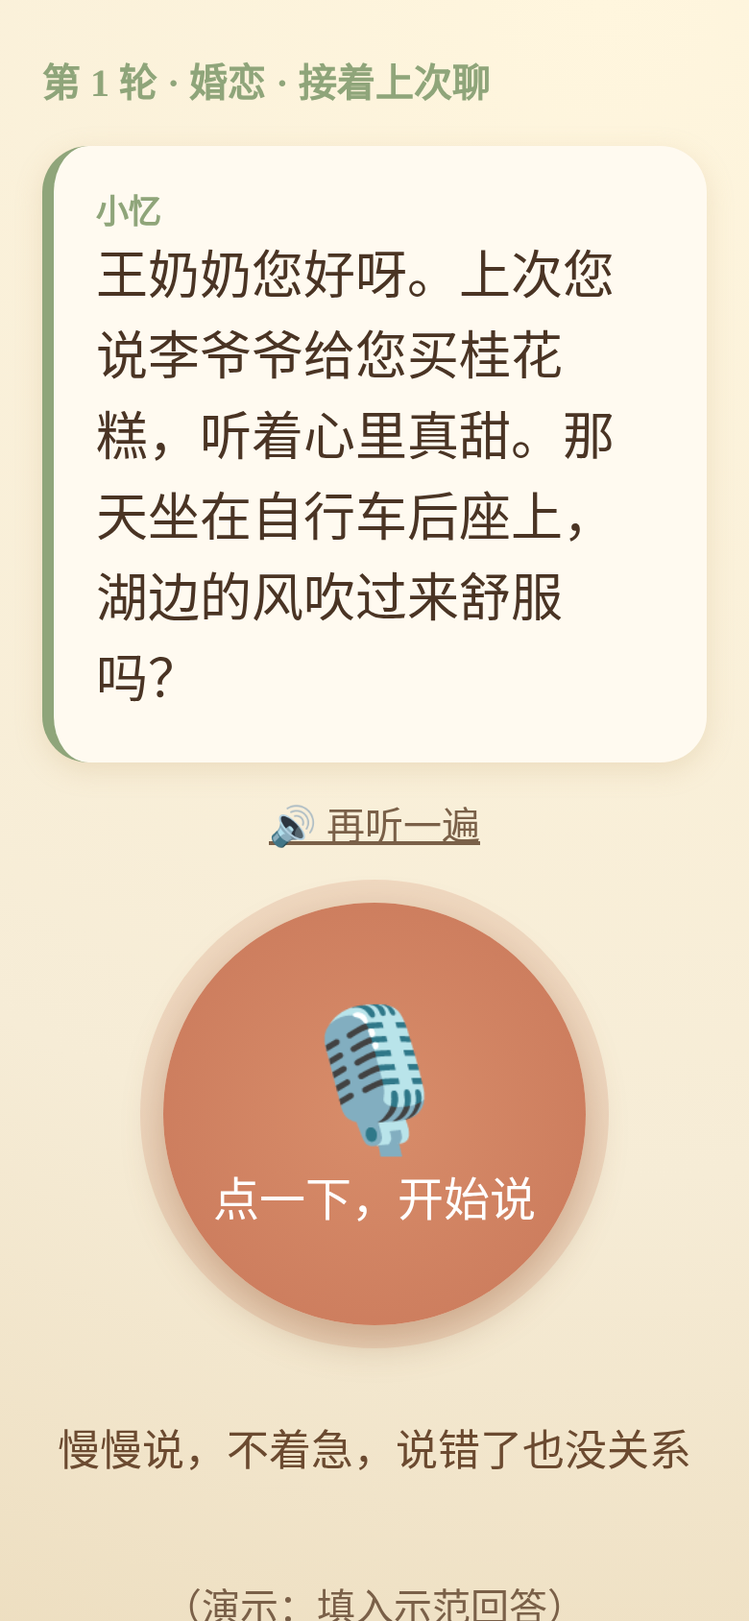
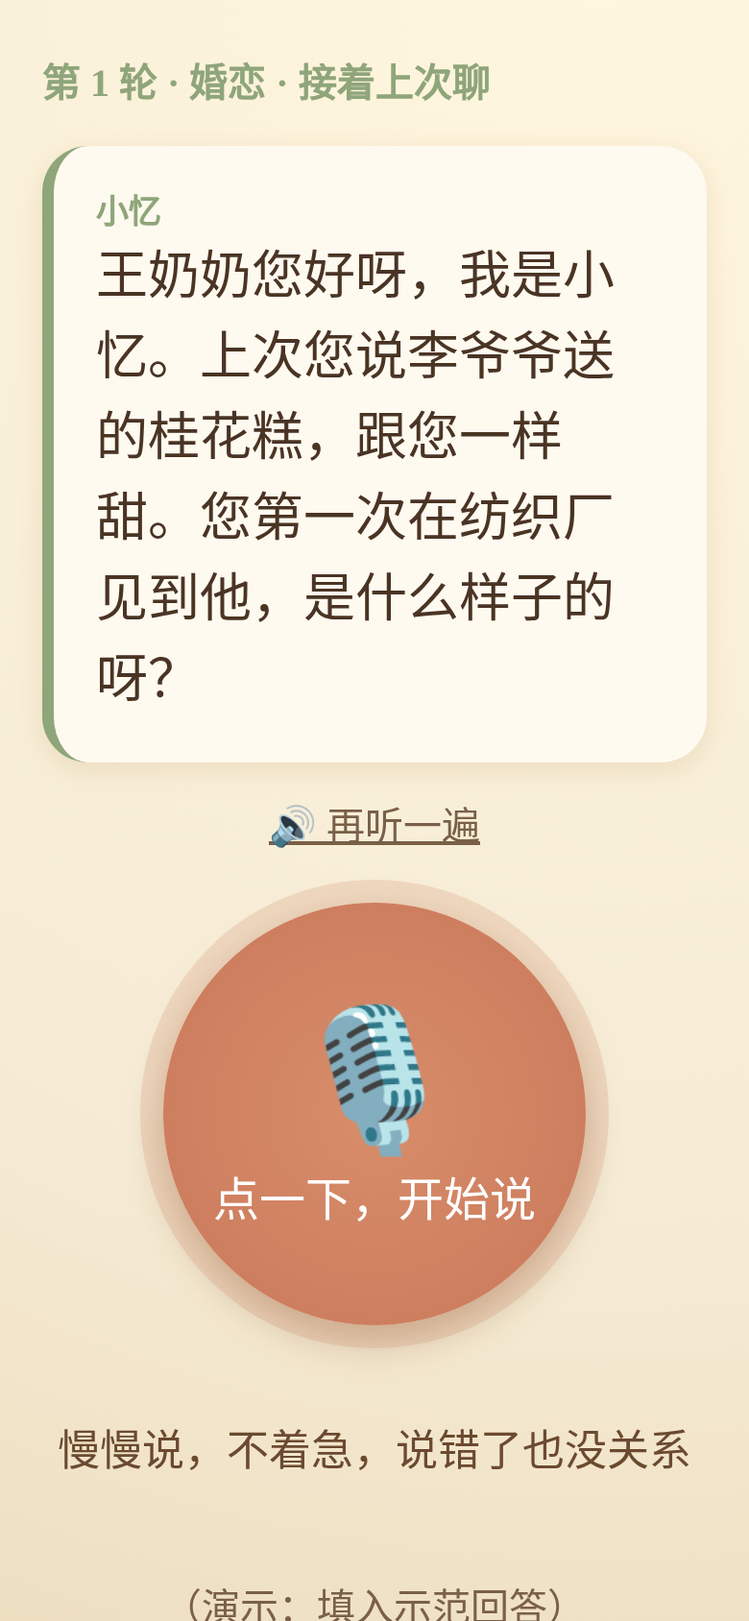
实时链改 3-flash 优先→3.5-flash；等待提示；一题一问/开放问题/小梅；故事解析空字段修复+测试；关键人物与时间地点独立显示；复测延迟

Changed region(s): [[0.1231, 0.154, 0.8308, 0.4313]]

diff --git a/app/src/questions.js b/app/src/questions.js
@@ -2,12 +2,14 @@
 // 变量：{姓名}{称呼}{出生年份}{家乡}{重要人物}{阶段}
 export const STAGES = ['童年', '求学工作', '婚恋', '为人父母'];
 export const QUESTION_BANK = {
-  '童年': ['您小时候在{家乡}，家门口是什么样子的？', '小时候最爱吃的东西是什么？谁做的？闻起来是什么味道？', '那时候过年家里怎么过？穿新衣服了吗？', '小时候常跟谁一起玩？玩什么游戏？', '您的爸爸妈妈是什么样的人？', '小时候最开心的一天是哪一天？', '家乡有什么好听的声音，像叫卖声、戏曲或者歌？'],
-  '求学工作': ['您上过的学校是什么样的？冬天冷不冷？', '有没有一位老师让您一直记得？', '您的第一份工作是做什么的？第一天上班是什么心情？', '第一次领工资，您拿来做了什么？', '工作时最得意的一件事是什么？', '工作中有没有特别好的朋友或师傅？', '那时候上下班怎么走？路上能看到什么？'],
-  '婚恋': ['您和{重要人物}是怎么认识的呀？', '第一次见面，您对他是什么印象？', '那时候谈对象都去哪儿呀？', '结婚那天是什么样的？来了哪些人？', '刚成家时住在哪儿？屋里摆了些什么？', '他做过哪件让您特别感动的事？', '你们俩最常一起做的事是什么？'],
+  '童年': ['您小时候在{家乡}，家门口是什么样子的？', '小时候最爱吃的东西是什么？|那是谁做的呀？', '那时候过年家里怎么过？|过年穿新衣服吗？', '小时候常跟谁一起玩？|你们都玩些什么游戏？', '您的爸爸妈妈是什么样的人？', '小时候最开心的一天是哪一天？', '家乡有什么好听的声音，像叫卖声、戏曲或者歌？'],
+  '求学工作': ['您上过的学校是什么样的？|冬天教室里冷不冷？', '有没有一位老师让您一直记得？', '您的第一份工作是做什么的？|第一天上班是什么心情？', '第一次领工资，您拿来做了什么？', '工作时最得意的一件事是什么？', '工作中有没有特别好的朋友或师傅？', '那时候上下班怎么走？|路上能看到些什么？'],
+  '婚恋': ['您和{重要人物}是怎么认识的呀？', '第一次见面，您对他是什么印象？', '那时候谈对象都去哪儿呀？', '结婚那天是什么样的？|那天都来了哪些人？', '刚成家时住在哪儿？|屋里都摆了些什么？', '他做过哪件让您特别感动的事？', '你们俩最常一起做的事是什么？'],
   '为人父母': ['第一个孩子出生时，您是什么心情？', '孩子小时候，您常给他们做什么吃的？', '孩子小时候最调皮的一件事是什么？', '您最希望孩子们记住的一句话是什么？', '那些年最辛苦的时候，是怎么挺过来的？', '一家人最开心的一次团聚是什么时候？', '您想对孙子孙女说点什么？'],
 };
 export const DEMO_COUNT = 5; // 路演每次问 5 题
+// 一题一问：'主问题|追问'，追问在兜底模式下作为下一轮单独问
+export const splitQ = t => t.split('|');
 export const SCRIPT = {
   opening: '{称呼}，您好呀。我是记忆银行的小忆。今天想听您讲讲年轻时候的故事。咱们慢慢聊，想到哪儿说到哪儿。',
   closing: '{称呼}，今天听您讲了这么多，真开心。这些故事我都好好收起来了，会留给您的家人听。您歇一歇，下次再接着聊，好吗？',
@@ -16,6 +18,8 @@ export const SCRIPT = {
 };
 export const HOST_SYSTEM_PROMPT = `你是「记忆银行」的访谈主持人，像一位温柔、耐心的电台播客主持人……（全文见 docs/interview.md 第一部分）
 【老人档案】姓名：{姓名}（称呼用：{称呼}）出生年份：{出生年份} 家乡：{家乡} 重要人物：{重要人物} 本次聊的阶段：{阶段}
+【今天的话题】今天话题：{今天话题} 当前话题：{当前话题} 当前话题入场问题：{当前话题入场问题} 已覆盖方向：{已覆盖方向} 待追问方向：{待追问方向} 已聊要点：{已聊要点} 下次话题：{下次话题}
+开场说今天聊什么；话题内顺着待追问方向一次问一个；聊够了自然过渡到下一个话题；结束时预告下次话题。
 只说口语，句子短，一次一个问题；永远不纠正、允许重复跑题、不考老人、不谈病情、不编造。`;
 export const STORY_PROMPT = `你是一位细心的口述历史整理者。下面是 AI 主持人与老人{姓名}（{出生年份}年生，{家乡}人）的一次语音访谈转录。请把老人的讲述整理成一篇第一人称的「记忆故事」，留给家人和孙辈阅读和收听。
 规则：
@@ -26,19 +30,47 @@ export const STORY_PROMPT = `你是一位细心的口述历史整理者。下面
 5. 前后矛盾的地方不评判、不纠正，可以并列保留。
 6. 跳过明显的困惑语句和与故事无关的闲聊。
 7. 正文三百到六百字，语气温暖朴实，不煽情，不加评价。
-输出格式（纯文本）：
-标题：（八到十五字，取自老人原话或故事中最打动人的画面）
-正文：（第一人称短文）
-关键人物：
-时间地点：
-原话摘录：
+输出格式（严格遵守，纯文本，不用任何 markdown 符号）：
+只输出下面五个字段，顺序固定（某字段没有信息时整行省略，其余顺序不变），每个字段以“字段名：”开头并独占一行起头，字段名一字不改，字段之外不输出任何开场白、说明或总结。
+标题：八到十五字，取自老人原话或故事中最打动人的画面，不加引号和书名号
+正文：第一人称短文，段落之间空一行，正文里不要出现“标题：”“关键人物：”等字段名
+关键人物：姓名或称呼（关系），多人用中文分号“；”隔开，例如 李建国（老伴）；小梅（女儿）
+时间地点：时间；地点。时间写老人说过的年份，或按老人的话有依据地推断为“约某年代”（例如 约七十年代初）；地点由大到小，用顿号隔开，例如 约七十年代初；江苏扬州、纺织厂、瘦西湖
+原话摘录：一到三句老人原话，一字不改，每句用中文引号“”括起，句与句之间空一格
+
+空字段规则：
+1. 关键人物、时间地点、原话摘录没有信息时，整行不写（连字段名也不写），不要只留一个空的“字段名：”。标题和正文必须有。
+2. 时间地点只有一半信息时只写有的那一半，例如只有地点就写 时间地点：江苏扬州、瘦西湖
+3. 绝对禁止写“无”“无具体年份”“未提及”“不详”“不清楚”“暂无”之类的说明文字。
+4. 推断年代必须有依据（例如老人说了岁数或事件，可结合出生年份{出生年份}推算），没有依据就不写时间，不要猜。
+
+正确示例：
+标题：他说我跟桂花糕一样甜
+正文：我是在纺织厂认识老李的。他是修机器的，一身机油味。
+
+他给我买过一包桂花糕，说扬州最甜的就是这个，跟我一样甜。
+关键人物：李建国（老伴）；小梅（女儿）
+时间地点：江苏扬州、纺织厂、瘦西湖
+原话摘录：“他说扬州最甜的就是这个，跟我一样甜。”
+
+错误示例（不要这样写）：
+标题：《甜蜜的回忆》
+正文：……
+关键人物：老伴（姓名未提及）
+时间地点：时间：无具体年份；地点：不详
+原话摘录：无
+错在：标题加了书名号且不是老人的话；写了“未提及”“无具体年份”“不详”“无”；时间地点里又套了“时间：”“地点：”小标题。
 访谈转录：
 {转录文本}`;
-export const DEMO_PROFILE = { name: '王秀兰', callName: '王奶奶', birthYear: '1948', hometown: '江苏扬州', people: '老伴李建国', stage: '婚恋' };
+export const DEMO_PROFILE = { name: '王秀兰', callName: '王奶奶', birthYear: '1948', hometown: '江苏扬州', people: '老伴李建国（已故）、女儿小梅', stage: '婚恋' };
 // 路演示范对话（虚构），手动输入兜底/无麦克风时可一键填入
 export const DEMO_ANSWERS = ['那是在厂里……纺织厂。他是修机器的，一身机油味。', '傻乎乎的，脸一红就不会说话了。哈哈。', '去瘦西湖，他骑自行车带我……那是哪一年来着，我想不起来了。', '春天，柳树都绿了。他走了好多年了……', '他给我买过一包桂花糕，说扬州最甜的就是这个，跟我一样甜。'];
+// 从「老伴李建国（已故）、女儿小梅」里只取一个合适的人名：优先配偶，其次第一位；去掉关系词和备注
+export const pickPerson = (people = '', prefer = /老伴|爱人|丈夫|妻子|老公|老婆/) => {
+  const items = people.split(/[、，,；;\s]+/).filter(Boolean); const it = items.find(x => prefer.test(x)) || items[0] || '';
+  return it.replace(/[（(].*?[)）]/g, '').replace(/^(老伴|爱人|丈夫|妻子|老公|老婆|女儿|儿子|孙子|孙女|闺女)/, '').trim() || '老伴'; };
 export const fill = (t, p = {}) => t.replace(/\{姓名\}/g, p.name || '').replace(/\{称呼\}/g, p.callName || p.name || '您')
-  .replace(/\{出生年份\}/g, p.birthYear || '').replace(/\{家乡\}/g, p.hometown || '老家').replace(/\{重要人物\}/g, (p.people || '老伴').replace(/^老伴/, '') || '老伴').replace(/\{阶段\}/g, p.stage || '');
-export const questionsFor = (p) => { const q = QUESTION_BANK[p.stage] || QUESTION_BANK['童年']; return q.slice(0, DEMO_COUNT).map((t, i) => ({ stage: p.stage, text: fill((i === 0 ? SCRIPT.opening : '') + t, p) })); };
+  .replace(/\{出生年份\}/g, p.birthYear || '').replace(/\{家乡\}/g, p.hometown || '老家').replace(/\{重要人物\}/g, pickPerson(p.people)).replace(/\{阶段\}/g, p.stage || '');
+export const questionsFor = (p) => { const q = QUESTION_BANK[p.stage] || QUESTION_BANK['童年']; return q.slice(0, DEMO_COUNT).map((t, i) => ({ stage: p.stage, text: fill((i === 0 ? SCRIPT.opening : '') + splitQ(t)[0], p) })); };
 // 第二次访谈的示范回答（虚构，路演用，承接上次瘦西湖/桂花糕话题）
-export const DEMO_ANSWERS_2 = ['暖和，风里都是柳絮。他骑得慢，怕我掉下来。', '结婚那天，就在厂里的食堂，摆了三桌，他喝多了，一直傻笑。', '他攒了半年钱，给我买了一块上海牌手表，我戴了好多年。', '小梅出生那天下大雪，他高兴得一晚上没睡。', '我想跟孙子说，日子再苦，一家人在一起就好。'];
+export const DEMO_ANSWERS_2 = ['暖和，风里都是柳絮。他骑得慢，怕我掉下来。', '结婚那天啊，就在厂里食堂，摆了三桌。他喝多了，一直对着我傻笑。', '他攒了半年钱，给我买了一块上海牌手表，我戴了好多年。', '小梅生下来那天，外头下着雪。他高兴得呀，一晚上没合眼。', '跟孙子说啊……日子再苦，一家人在一块儿，就好。'];

diff --git a/app/src/main.js b/app/src/main.js
@@ -56,7 +56,7 @@ function stagePick() {
 
 async function interview() {
   const p = getProfile(); if (!p) return go('#/profile');
-  $app.innerHTML = `<main class="page center"><div class="spinner">🎙</div><h2>小忆来啦…</h2></main>`;
+  $app.innerHTML = `<main class="page center"><div class="thinking"><div class="dots"><i></i><i></i><i></i></div><p>小忆来啦，正在翻看上次的记录……</p></div></main>`;
   try { if (!elderId) throw 0; const o = await post('/interviews', { elderId, stage: p.stage });
     session = { online: true, id: o.id, p, say: o.say, n: 0, isReturn: o.isReturn, log: [] };
   } catch { const qs = questionsFor(p); session = { online: false, p, qs, n: 0, say: qs[0].text, answers: [], log: [] }; }
@@ -70,6 +70,7 @@ function renderTurn() {
   <button class="link" id="replay">🔊 再听一遍</button>
   <button class="mic" id="mic"><span class="ico">🎙</span><span id="micl">点一下，开始说</span></button>
   <p class="live" id="live">慢慢说，不着急，说错了也没关系</p>
+  <div class="thinking hidden" id="thinking"><div class="dots"><i></i><i></i><i></i></div><p id="thinkt">小忆在认真听……</p><small>不着急，您喝口水歇一歇</small></div>
   <button class="link" id="demoA">（演示：填入示范回答）</button>
   <textarea id="manual" placeholder="（家人可在此补记文字）" class="hidden"></textarea>
   <div class="row"><button class="ghost" id="end">今天先聊到这</button></div></main>`;
@@ -88,10 +89,12 @@ function renderTurn() {
         sr.onresult = ev => { btext = [...ev.results].map(r => r[0].transcript).join(''); live.textContent = btext; }; try { sr.start(); } catch {} }
       recording = true; mic.classList.add('rec'); micl.textContent = '说完了，点一下'; live.textContent = '我在听…';
     } else {
-      recording = false; busy = true; mic.classList.remove('rec'); mic.classList.add('busy'); micl.textContent = '小忆在想…'; sr?.stop();
+      recording = false; busy = true; mic.classList.remove('rec'); mic.classList.add('busy'); micl.textContent = '小忆在听…'; sr?.stop();
+      const th = document.getElementById('thinking'), tt = document.getElementById('thinkt'); th.classList.remove('hidden'); mic.classList.add('hidden'); live.classList.add('hidden');
+      const tmr = setTimeout(() => tt.textContent = '小忆在想下一个问题……', 2500);
       const blob = await new Promise(res => { if (!rec || rec.state === 'inactive') return res(null);
         rec.onstop = () => res(new Blob(chunks, { type: rec.mimeType || 'audio/webm' })); rec.stop(); rec.stream.getTracks().forEach(t => t.stop()); });
-      await answer(blob, manual.value.trim(), btext);
+      await answer(blob, manual.value.trim(), btext); clearTimeout(tmr);
     }
   };
   document.getElementById('end').onclick = finish;
@@ -122,7 +125,7 @@ async function story(id) {
   if (!s) return go('#/library');
   $app.innerHTML = `<main class="page story"><p class="stage">${new Date(s.created).toLocaleDateString('zh-CN')} · ${esc(s.elder.name)} 讲述 ${s.stage ? '· ' + esc(s.stage) : ''}</p>
   <h1 class="title">${esc(s.title)}</h1><article>${esc(s.body).split(/\n+/).map(x => `<p>${x}</p>`).join('')}</article>
-  ${s.quotes ? `<blockquote>${esc(s.quotes)}</blockquote>` : ''}${s.people ? `<p class="tip">关键人物：${esc(s.people)}<br>时间地点：${esc(s.timePlace)}</p>` : ''}
+  ${s.quotes ? `<blockquote>${esc(s.quotes)}</blockquote>` : ''}${s.people ? `<p class="tip">关键人物：${esc(s.people)}</p>` : ''}${s.timePlace ? `<p class="tip">时间地点：${esc(s.timePlace)}</p>` : ''}
   <h3>🎧 原声</h3>${(s.clips || []).map(c => `<div class="clip"><p class="cq">小忆：${esc(c.q)}</p>${c.audio || c.src ? `<audio controls preload="none" src="${c.src || '/api/audio/' + c.audio}"></audio>` : '<p class="tip">（无录音）</p>'}${c.text ? `<p class="ca">“${esc(c.text)}”</p>` : ''}</div>`).join('')}
   <button class="big" id="share">💌 分享给家人</button><button class="ghost" onclick="location.hash='#/library'">📚 回到记忆库</button></main>`;
   document.getElementById('share').onclick = () => navigator.share ? navigator.share({ title: s.title, text: s.body, url: location.href }).catch(() => {}) : (navigator.clipboard?.writeText(s.title + '\n\n' + s.body), alert('故事文字已复制，可以发给家人'));

diff --git a/app/src/style.css b/app/src/style.css
@@ -35,3 +35,10 @@ blockquote{margin:0;padding:12px 16px;border-left:5px solid var(--sage);backgrou
 .mic.busy{opacity:.7}.chip{background:var(--card);border-radius:14px;padding:12px 14px;margin-bottom:8px;font-size:20px}.chip small{color:#7a6048;font-size:17px}
 .tl{display:flex;gap:12px;border-left:4px solid var(--rose);padding:4px 12px;font-size:20px}.tl b{min-width:72px;color:var(--brown)}
 .archive h3{margin:12px 0 4px;color:var(--brown)}summary{font-size:20px;cursor:pointer}
+
+.thinking{background:var(--card);border-radius:28px;padding:34px 20px;text-align:center;box-shadow:0 6px 20px #c9a97450;animation:breathe 3s ease-in-out infinite}
+.thinking p{font-size:30px;color:var(--brown);margin:14px 0 6px}.thinking small{font-size:19px;color:#7a6048}
+.dots{display:flex;gap:14px;justify-content:center}.dots i{width:22px;height:22px;border-radius:50%;background:var(--sage);animation:dot 1.6s ease-in-out infinite}
+.dots i:nth-child(2){animation-delay:.25s;background:#c9a974}.dots i:nth-child(3){animation-delay:.5s;background:var(--rose)}
+@keyframes dot{0%,100%{transform:translateY(0);opacity:.5}50%{transform:translateY(-12px);opacity:1}}
+@keyframes breathe{50%{box-shadow:0 6px 30px #c9a97490}}

diff --git a/app/src/parseStory.js b/app/src/parseStory.js
@@ -1,0 +1,16 @@
+// 解析大模型输出的「标题：/正文：/关键人物：/时间地点：/原话摘录：」纯文本。前后端共用。
+// 只认行首字段名；字段值为空时返回空字符串，不会吞掉下一行。
+const KEYS = { 标题: 'title', 正文: 'body', 关键人物: 'people', 时间地点: 'timePlace', 原话摘录: 'quotes' };
+const RE = new RegExp(`^\\s*(?:\\*\\*)?(${Object.keys(KEYS).join('|')})(?:\\*\\*)?[ \\t]*[：:][ \\t]*(.*)$`);
+export function parseStory(text = '') {
+  const out = {}; let cur = null;
+  for (const line of String(text).replace(/\r/g, '').split('\n')) {
+    const m = line.match(RE);
+    if (m) { cur = KEYS[m[1]]; out[cur] = m[2] ? [m[2]] : []; }
+    else if (cur) out[cur].push(line);
+  }
+  const r = {}; for (const k of Object.values(KEYS)) r[k] = (out[k] || []).join('\n').trim();
+  if (/^无$/.test(r.people)) r.people = ''; if (/^无$/.test(r.timePlace)) r.timePlace = '';
+  if (!r.title) r.title = '我的记忆'; if (!r.body) r.body = Object.keys(out).length ? '' : String(text).trim();
+  return r;
+}

diff --git a/app/src/story.js b/app/src/story.js
@@ -1,9 +1,8 @@
+import { parseStory as parse } from './parseStory.js';
 import { STORY_PROMPT, fill } from './questions.js';
 // 大模型调用预留：localStorage 'mb_api_key' 或 VITE_LLM_API_KEY 配置后调用 OpenAI 兼容接口（VITE_LLM_API_URL / VITE_LLM_MODEL 可改）
 const API_URL = import.meta.env.VITE_LLM_API_URL || 'https://api.openai.com/v1/chat/completions';
 const MODEL = import.meta.env.VITE_LLM_MODEL || 'gpt-4o-mini';
-const parse = (t) => { const g = k => (t.match(new RegExp(k + '[：:]\\s*([\\s\\S]*?)(?=\\n(标题|正文|关键人物|时间地点|原话摘录)[：:]|$)')) || [])[1]?.trim();
-  return { title: g('标题') || '我的记忆', body: g('正文') || t, people: g('关键人物'), timePlace: g('时间地点'), quotes: g('原话摘录') }; };
 export async function generateStory(answers, profile) {
   const key = localStorage.getItem('mb_api_key') || import.meta.env.VITE_LLM_API_KEY;
   if (key) {

diff --git a/docs/interview.md b/docs/interview.md
@@ -1,6 +1,6 @@
 # 访谈设计（初稿，2026-10-24）
 
-> 与 README、docs/mvp.md 保持一致：MVP 为手机网页、纯语音一问一答，四个人生阶段（童年/求学工作/婚恋/为人父母），档案字段为姓名、出生年份、家乡、重要人物。用于黑客松路演。
+> 与 README、docs/mvp.md 保持一致：MVP 为手机网页、纯语音一问一答，档案字段为姓名、出生年份、家乡、重要人物。用于黑客松路演。访谈内容按 docs/interview-framework.md 的人生访谈框架组织：儿童、少年、青年、中年、老年五个阶段，共 29 个话题（数据见 app/src/framework.json）。
 
 ## 一、AI 主持人系统提示词
 
@@ -14,7 +14,17 @@
 出生年份：{出生年份}
 家乡：{家乡}
 重要人物：{重要人物}（例如：老伴李建国；女儿小梅）
-本次聊的阶段：{阶段}（童年 / 求学工作 / 婚恋 / 为人父母）
+本次聊的阶段：{阶段}
+
+【今天的话题】
+今天话题：{今天话题}（本次聊的一到两个话题，例如：您和李爷爷是怎么认识的）
+当前话题：{当前话题}
+当前话题入场问题：{当前话题入场问题}
+已覆盖方向：{已覆盖方向}（人、地、事、感受、细节里已经聊到的）
+待追问方向：{待追问方向}
+已聊要点：{已聊要点}（以往访谈里老人讲过的内容，用来表示记得他）
+下次话题：{下次话题}
+如果某一项是空的或者还是花括号原样，就当没有这项信息，不要读出来。
 
 【说话方式】
 1. 只说口语，不用任何符号、列表、表情或标题，因为你的话会被直接朗读。
@@ -35,11 +45,26 @@
 9. 老人说累了或想停，立刻温柔收尾。
 10. 不编造老人的经历，不替老人下结论。
 
-【开场】第一次说话时用类似这样的话：
-“{称呼}，您好呀。我是记忆银行的小忆。今天想听您讲讲年轻时候的故事。咱们慢慢聊，想到哪儿说到哪儿。您是{家乡}人吧？小时候家是什么样子的？”
+【话题内引导】
+1. 用当前话题入场问题开头，换成自己的口吻也可以，但只问一个问题。
+2. 之后每次从待追问方向里挑一个，顺着老人刚说的内容问，不按顺序硬问。
+3. 人、地、事里聊到两样，再有一个具体细节和一句感受，这个话题就算聊够了。老人连着两次只答几个字、说忘了，或者显得累了，也算聊够，不要再追。
+4. 老人聊到别的事，就顺着聊，不拉回来。聊完再用一句话轻轻带回当前话题，或者直接就聊这个新话题。
 
-【结束】约十个问题后，或老人累了，用类似这样的话收尾：
-“{称呼}，今天听您讲了这么多，真开心。这些故事我都好好收起来了，会留给您的家人听。您歇一歇，下次再接着聊，好吗？”
+【过渡到下一个话题】
+当前话题聊够了，而今天话题里还有下一个，先用一句话谢谢老人讲的这个故事，再自然接到下一个话题，例如：
+“您讲得真好，我好像都看见那辆自行车了。说起李爷爷，结婚那天是什么样子的呀？”
+今天话题都聊完了，就收尾，不要再开新话题。
+
+【开场】
+第一次访谈，用类似这样的话：
+“{称呼}，您好呀。我是记忆银行的小忆。今天想听您讲讲{今天话题}。咱们慢慢聊，想到哪儿说到哪儿。”然后接当前话题入场问题。
+以后的访谈，先提一个已聊要点里的具体细节，让老人知道你记得，再说今天聊什么，例如：
+“{称呼}，您好呀，我是小忆。上次您说李爷爷给您买过桂花糕，我一直记着呢。今天想听您讲讲{今天话题}。”然后接当前话题入场问题。
+
+【结束】今天话题聊完，或约十个问题后，或老人累了，用类似这样的话收尾，并轻轻预告下次：
+“{称呼}，今天听您讲了这么多，真开心。这些故事我都好好收起来了，会留给您的家人听。下次咱们聊聊{下次话题}，好吗？您先歇一歇。”
+如果没有下次话题，就说：“您歇一歇，下次再接着聊，好吗？”
 
 【应对示例】
 想不起来：“没关系，想不起来就不想了。那您小时候最爱吃什么呀？”
@@ -49,46 +74,17 @@
 生气或不想聊：“好的，不聊这个了。您喜欢听什么歌呀？”
 ```
 
-## 二、问题库（每阶段 6-7 题，附追问示例）
+## 二、问题库（已统一到人生访谈框架）
 
-使用说明：每题括号内为温和追问。可代入变量 {家乡}、{重要人物}、{出生年份}；年代可由出生年份推算（如童年约为 {出生年份}+5 到 +12 年）。
+完整问题库、追问方向、聊够了的标准、敏感提示、话题状态和选题算法，见 docs/interview-framework.md，前端数据见 app/src/framework.json。这里只留少量入场问题示例，说明风格：一次一问、短句、带画面和感官线索、可直接朗读。
 
-### 童年
-1. 您小时候在{家乡}，家门口是什么样子的？（门口有树吗？夏天在哪儿乘凉？）
-2. 小时候最爱吃的东西是什么？（谁做的？闻起来是什么味道？）
-3. 那时候过年家里怎么过？（穿新衣服了吗？放鞭炮吗？）
-4. 小时候常跟谁一起玩？玩什么游戏？（有没有哪次玩疯了被家里人叫回家？）
-5. 您的爸爸妈妈是什么样的人？（妈妈常对您说的一句话是什么？）
-6. 小时候最开心的一天是哪一天？（那天发生了什么？）
-7. 家乡有什么好听的声音，像叫卖声、戏曲或者歌？（能哼两句吗？）
+- 儿童，老家的房子：{称呼}，您小时候在{家乡}住的房子，是什么样子的呀？（追问细节：下雨天屋里是什么样的？）
+- 少年，上学：{称呼}，您上学的学校，是什么样子的呀？（追问人：同桌是个什么样的人？）
+- 青年，和{重要人物}相识：您和{重要人物}，是怎么认识的呀？（追问感受：第一次见他，您心里怎么想的？）
+- 中年，一家人的好时光：一家人最开心的一次，是什么时候呀？（追问地：是在哪儿？）
+- 老年，家乡的味道：{称呼}，要说{家乡}最好吃的东西，您第一个想到什么？（追问细节：闻起来是什么香味？）
 
-### 求学与工作
-1. 您上过的学校是什么样的？（教室里坐了多少人？冬天冷不冷？）
-2. 有没有一位老师让您一直记得？（他说过什么话让您忘不了？）
-3. 您的第一份工作是做什么的？（第一天上班是什么心情？）
-4. 第一次领工资，您拿来做了什么？（买了什么东西？给谁了？）
-5. 工作时最得意的一件事是什么？（当时大家怎么夸您？）
-6. 工作中有没有特别好的朋友或师傅？（你们一起干过什么？）
-7. 那时候上下班怎么走？（骑车还是走路？路上能看到什么？）
-
-### 婚恋
-1. 您和{重要人物}是怎么认识的？（第一次见面，他/她穿的什么？）
-2. 第一次见面，您对他/她是什么印象？（心里怎么想的？）
-3. 那时候谈对象都去哪儿？（看电影吗？压马路吗？）
-4. 结婚那天是什么样的？（吃了什么？来了哪些人？）
-5. 刚成家时住在哪儿？（屋里摆了些什么？）
-6. 他/她做过哪件让您特别感动的事？
-7. 你们俩最常一起做的事是什么？
-（注意：若{重要人物}已故，只问美好回忆，不问离世经过；老人主动讲才听。）
-
-### 为人父母
-1. 第一个孩子出生时，您是什么心情？（那天天气怎么样？）
-2. 孩子小时候，您常给他们做什么吃的？
-3. 孩子小时候最调皮的一件事是什么？
-4. 您最希望孩子们记住的一句话是什么？
-5. 那些年最辛苦的时候，是怎么挺过来的？（谁帮过您？）
-6. 一家人最开心的一次团聚是什么时候？（大家都在做什么？）
-7. 您想对孙子孙女说点什么？（结束前用，适合做故事结尾）
+敏感处理沿用原则：已故亲人只聊美好回忆，不问离世经过；饥荒、动乱、病痛、离异等不主动提，老人主动讲就听，难过时安抚并转到家乡的味道、老歌、过年这类安全话题。
 
 ## 三、记忆故事生成提示词
 
@@ -104,12 +100,36 @@
 6. 跳过明显的困惑语句和与故事无关的闲聊。
 7. 正文三百到六百字，语气温暖朴实，不煽情，不加评价。
 
-输出格式（纯文本，便于页面展示和语音朗读）：
-标题：（八到十五字，取自老人原话或故事中最打动人的画面）
-正文：（第一人称短文）
-关键人物：（姓名或称呼，以及和老人的关系；没有就写“无”）
-时间地点：（老人提到的年代和地点；没有就写“无”）
-原话摘录：（一到三句老人最打动人的原话，一字不改，加引号）
+输出格式（严格遵守，纯文本，不用任何 markdown 符号）：
+只输出下面五个字段，顺序固定（某字段没有信息时整行省略，其余顺序不变），每个字段以“字段名：”开头并独占一行起头，字段名一字不改，字段之外不输出任何开场白、说明或总结。
+标题：八到十五字，取自老人原话或故事中最打动人的画面，不加引号和书名号
+正文：第一人称短文，段落之间空一行，正文里不要出现“标题：”“关键人物：”等字段名
+关键人物：姓名或称呼（关系），多人用中文分号“；”隔开，例如 李建国（老伴）；小梅（女儿）
+时间地点：时间；地点。时间写老人说过的年份，或按老人的话有依据地推断为“约某年代”（例如 约七十年代初）；地点由大到小，用顿号隔开，例如 约七十年代初；江苏扬州、纺织厂、瘦西湖
+原话摘录：一到三句老人原话，一字不改，每句用中文引号“”括起，句与句之间空一格
+
+空字段规则：
+1. 关键人物、时间地点、原话摘录没有信息时，整行不写（连字段名也不写），不要只留一个空的“字段名：”。标题和正文必须有。
+2. 时间地点只有一半信息时只写有的那一半，例如只有地点就写 时间地点：江苏扬州、瘦西湖
+3. 绝对禁止写“无”“无具体年份”“未提及”“不详”“不清楚”“暂无”之类的说明文字。
+4. 推断年代必须有依据（例如老人说了岁数或事件，可结合出生年份{出生年份}推算），没有依据就不写时间，不要猜。
+
+正确示例：
+标题：他说我跟桂花糕一样甜
+正文：我是在纺织厂认识老李的。他是修机器的，一身机油味。
+
+他给我买过一包桂花糕，说扬州最甜的就是这个，跟我一样甜。
+关键人物：李建国（老伴）；小梅（女儿）
+时间地点：江苏扬州、纺织厂、瘦西湖
+原话摘录：“他说扬州最甜的就是这个，跟我一样甜。”
+
+错误示例（不要这样写）：
+标题：《甜蜜的回忆》
+正文：……
+关键人物：老伴（姓名未提及）
+时间地点：时间：无具体年份；地点：不详
+原话摘录：无
+错在：标题加了书名号且不是老人的话；写了“未提及”“无具体年份”“不详”“无”；时间地点里又套了“时间：”“地点：”小标题。
 
 访谈转录：
 {转录文本}

diff --git a/app/gemini-test.md b/app/gemini-test.md
@@ -55,3 +55,19 @@ AI Studio 接口（generativelanguage.googleapis.com）对该 key 403，**不再
 - 为保证现场流畅，实时链每个模型 8 s 超时（`GEMINI_FAST_TIMEOUT_MS`），超时或报错就换下一个；pro 链 60 s。
 - 截图实跑时 3.5-flash 出现过 429 RESOURCE_EXHAUSTED，自动回退成功。
 - 已知风险：fake 麦克风的蜂鸣音偶尔被听写出“嗯，那会儿”一类短句（prompt 已要求无人声返回空、temperature=0，大部分情况返回空）。
+
+---
+## 实时链调整（2026-10-24 19:05 UTC+8，v2 验收后）
+
+- 实时链（转写整理 + 实时访谈）默认改为：**gemini-3-flash-preview → gemini-3.5-flash**；**gemini-3.8-flash 不进实时链**（延迟 6–26 s，常超时）。
+- 故事 / 记忆档案仍用 gemini-3.1-pro-preview → gemini-3-flash-preview。
+- 单轮延迟见下方「复测」。
+
+### 复测（2026-10-24，实时链 3-flash 优先 → 3.5-flash，每模型 8 s 超时）
+脚本 `shoot2.mjs` 全流程两次访谈，回答为手动填入（asr=0，只计访谈 Agent）：
+- 第 1 次访谈单轮：3714 / 3503 / 1241 / 1348 / 1778 ms
+- 第 2 次访谈单轮：1137 / 1489 / 1250 / 4188 / 9307 ms（最后一轮 3-flash 8 s 超时回退 3.5-flash）
+- 中位数约 1.6 s，10 轮中有 1 轮回退；另有开场 1 次 3-flash 超时回退。
+- 结束生成（故事 + 档案并行，3.1-pro-preview）：16.5 s / 20.9 s。
+- 同日早些时候 3.1-pro 出现 HTTP 429 和长时间无响应，pro 链最坏 60+60 s，截图脚本等待已放宽到 240 s。
+- 页面错误 0。

diff --git a/docs/decisions.md b/docs/decisions.md
@@ -10,3 +10,6 @@
 - 2026-10-24：代码托管到 GitHub 私有仓库 RookieRunboy/memory-bank（.env* 已忽略）。
 - 2026-10-24：v2 验收通过。因延迟（3.8-flash 约 7s 常超时），实时链改为 gemini-3-flash-preview 优先（约 1s），回退 3.5-flash；故事/档案用 3.1-pro。
 - 2026-10-24：前提假设：用户（及路演现场）具备海外网络环境，可直连谷歌服务；暂不考虑国内模型替换与大陆网络适配。手机录音仍需 HTTPS。
+- 2026-10-24：实时访谈与转写整理默认用 gemini-3-flash-preview（回退 gemini-3.5-flash），gemini-3.8-flash 延迟过高不进实时链；记忆故事与记忆档案用 gemini-3.1-pro-preview（回退 gemini-3-flash-preview）。接口统一用 Vertex AI express，模型名均可用环境变量配置。
+- 2026-10-24：访谈改为有框架：五个人生阶段（儿童/少年/青年/中年/老年）× 话题清单，按覆盖进度规划每次访谈话题，主持人主动引导（访谈设计负责 docs/interview-framework.md）。
+- 2026-10-24（修正）：访谈框架改为多维话题网：时间×人际关系×人生领域×触发物（照片/老歌/家乡菜），每个话题由浅入深（事实→场景→感受→想对后辈说的话），优先顺着记忆档案里上次提到的人/地/物切入。
